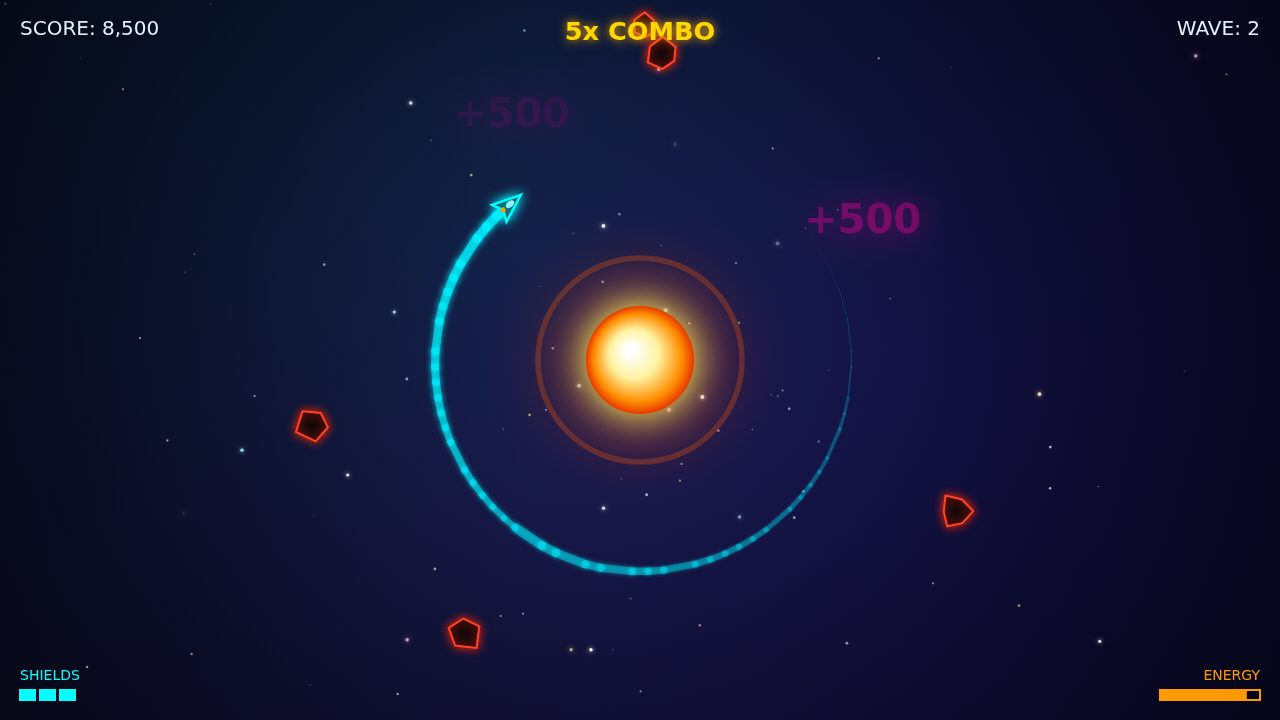
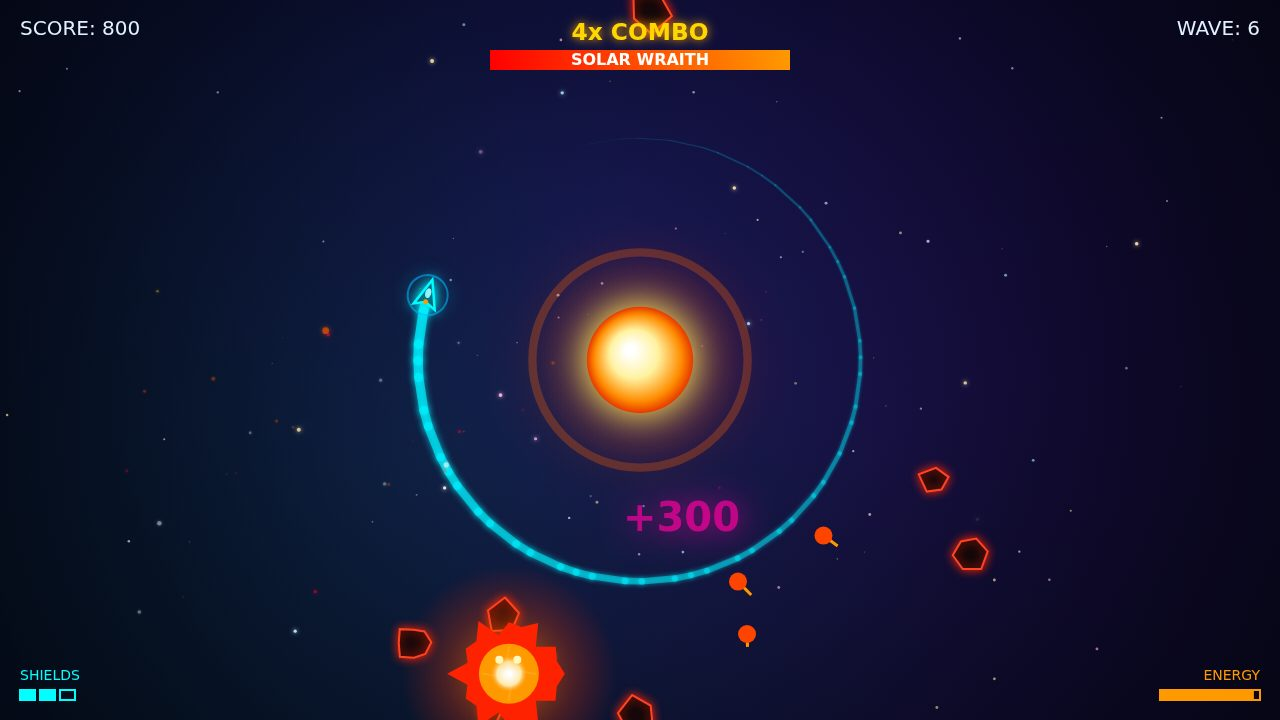
boss scene screenshots, wave timer, powerups

diff --git a/game/js/main.js b/game/js/main.js
@@ -23,6 +23,7 @@ let combo = 1;
 let lastHarvestTime = 0;
 let shake = 0;
 let wave = 1;
+let waveTimer = 0;
 let cometSpawnTimer = 0;
 let keys = {};
 
@@ -63,6 +64,10 @@ function startGame() {
   score = 0;
   combo = 1;
   wave = 1;
+  waveTimer = 0;
+  // Dev hook: ?wave=N starts mid-game (used for capture/debug)
+  const devWave = Number(new URLSearchParams(location.search).get('wave') || 0);
+  if (devWave >= 5) wave = devWave;
   ship = new Ship(canvas.width / 2, canvas.height / 2);
   ship.invulnerableTimer = 3.0;
   star = new Star(canvas.width / 2, canvas.height / 2);
@@ -77,7 +82,7 @@ function startGame() {
 
 // Spawning Logic
 function spawnWave() {
-  const debrisCount = wave <= 3 ? 5 : 3 + wave;
+  const debrisCount = wave <= 3 ? 5 : Math.min(3 + wave, 7);
   for (let i = 0; i < debrisCount; i++) {
     let d;
     // Ensure debris spawns at least 70px from ship orbit radius
@@ -171,6 +176,14 @@ function loop(now) {
 
     if (debris.length === 0) {
       wave++;
+      waveTimer = 0;
+      spawnWave();
+    }
+    // Waves also advance on a timer so slower players still meet the boss
+    waveTimer += dt;
+    if (waveTimer >= 20) {
+      wave++;
+      waveTimer = 0;
       spawnWave();
     }
 
